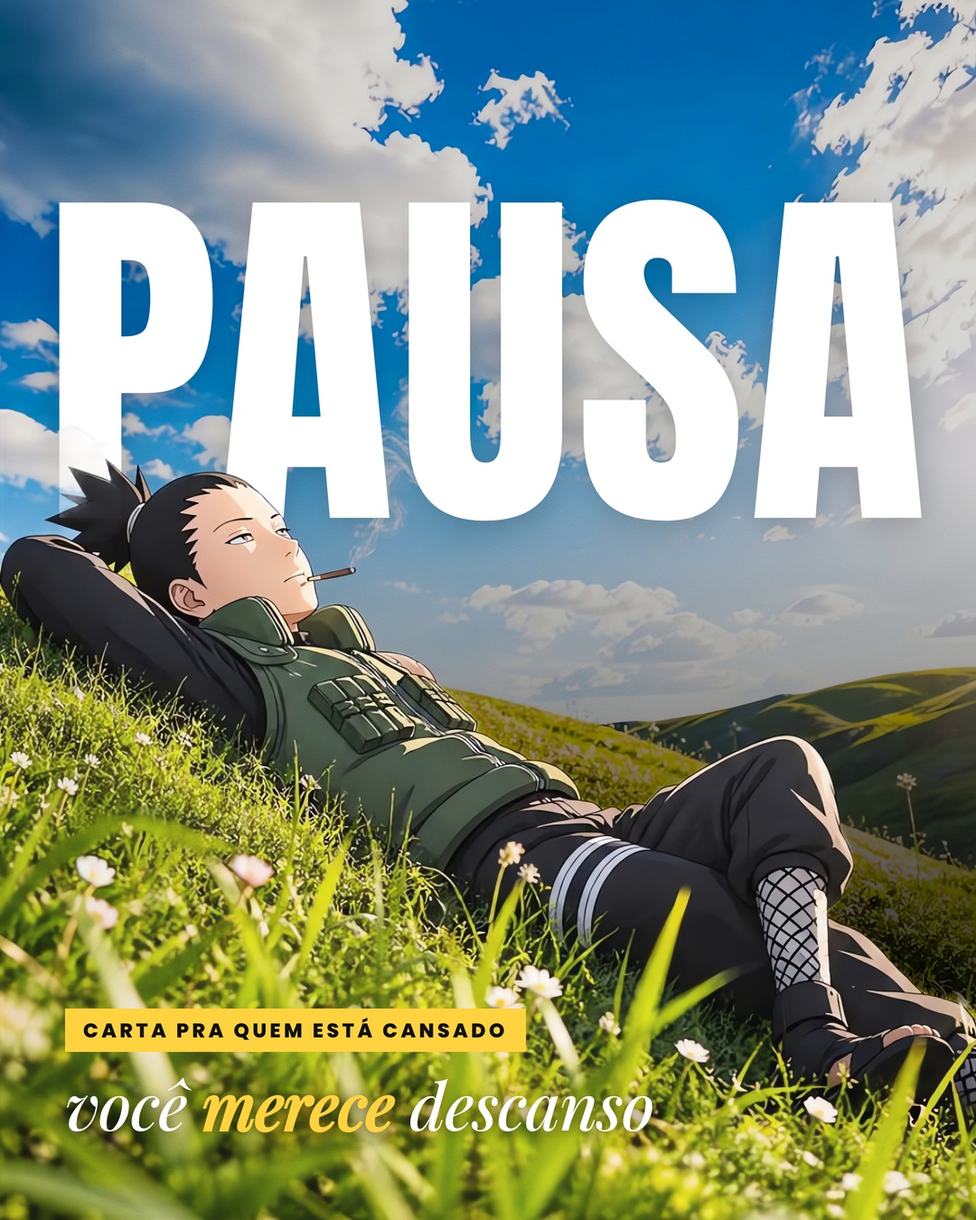
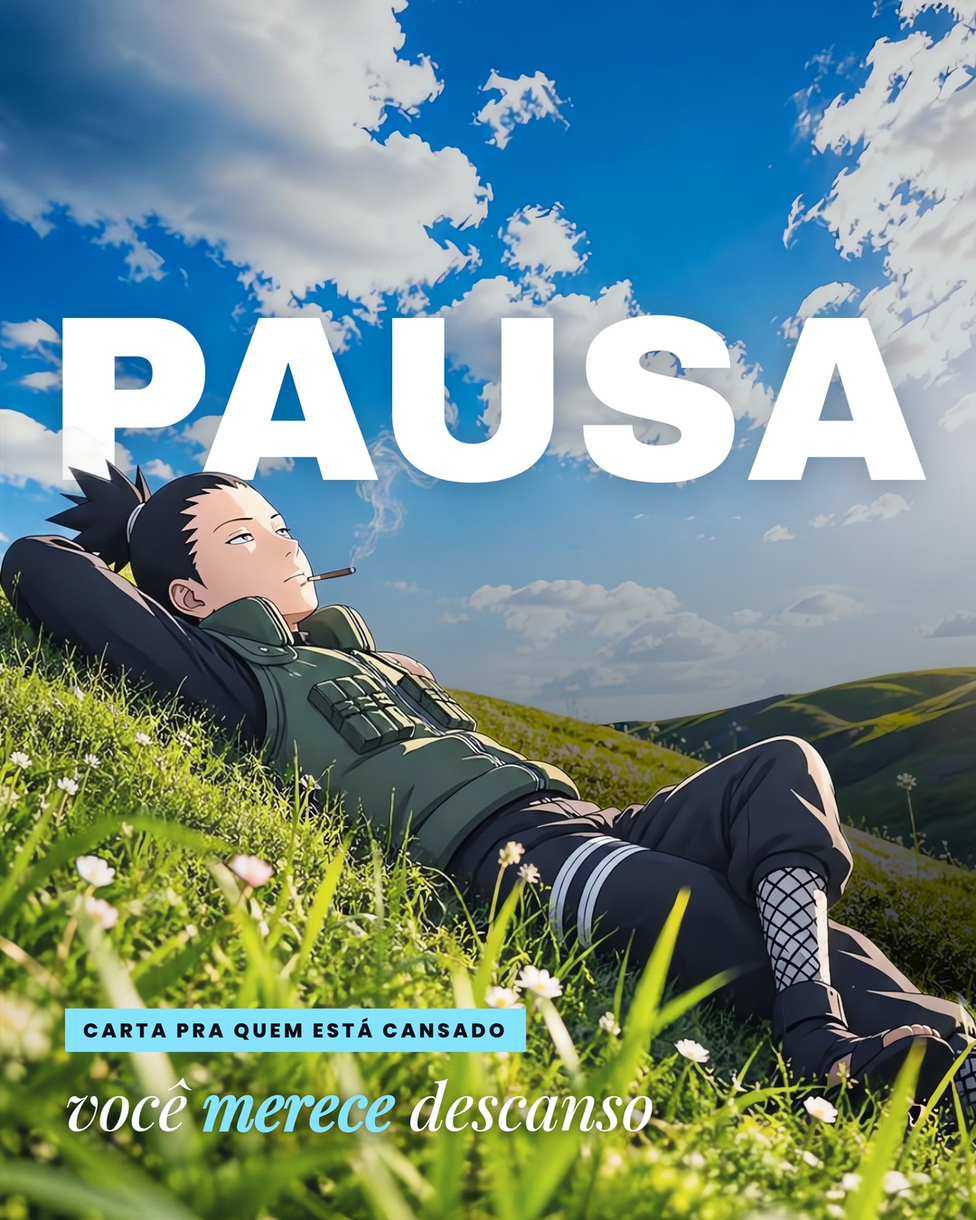
Temas visuais (paleta/fontes/tom) e regra de variar o visual entre posts; 28/11 em tema oceano
Claude-Session: https://claude.ai/code/session_01Dfr63gNG2gKdD9mBSqCAhu

Changed region(s): [[0.0611, 0.1556, 0.9472, 0.4356], [0.0611, 0.8089, 0.55, 0.9333]]

diff --git a/posts/2026-11-28/carrossel.html b/posts/2026-11-28/carrossel.html
@@ -21,11 +21,17 @@ body{background:#777;display:flex;flex-direction:column;gap:40px;padding:40px;al
 .tj .hd{font:italic 500 28px C;margin-bottom:12px;text-shadow:0 1px 3px rgba(0,0,0,.9),0 0 14px rgba(0,0,0,.6)}
 .tj .ln{margin:0;font:700 52px/1.18 T;letter-spacing:-.02em;
  text-shadow:0 2px 2px rgba(0,0,0,.55),0 0 6px rgba(0,0,0,.55),0 0 22px rgba(0,0,0,.45);-webkit-text-stroke:.6px rgba(0,0,0,.25)}
-.tj .ln b{color:#ffd23f}
+.tj .ln b{color:var(--acc)}
 .tj .tt{font-size:100px;line-height:1.02;letter-spacing:-.04em}
-.tj .tt b{color:#ffd23f}
+.tj .tt b{color:var(--acc)}
 .tj .st{margin-top:14px;font-size:44px;font-weight:600}
 @font-face{font-family:A;src:url(../../assets/fonts/anton-latin-400-normal.woff2)}
+@font-face{font-family:BB;src:url(../../assets/fonts/bebas-neue-latin-400-normal.woff2)}
+@font-face{font-family:AB;src:url(../../assets/fonts/archivo-black-latin-400-normal.woff2)}
+@font-face{font-family:CG;font-style:italic;font-weight:500;src:url(../../assets/fonts/cormorant-garamond-latin-500-italic.woff2)}
+:root{--acc:var(--acc);--paper:#f1ece2;--hot:var(--hot);--ink:#151515;--disp:A;--ser:PF;--wash:transparent;--gs:0}
+.slide{filter:grayscale(var(--gs))}
+.slide::after{content:"";position:absolute;inset:0;background:var(--wash);mix-blend-mode:soft-light;z-index:25;pointer-events:none}
 @font-face{font-family:PF;font-weight:500;src:url(../../assets/fonts/playfair-display-latin-500-normal.woff2)}
 @font-face{font-family:PF;font-weight:500;font-style:italic;src:url(../../assets/fonts/playfair-display-latin-500-italic.woff2)}
 @font-face{font-family:Pp;font-weight:300;src:url(../../assets/fonts/poppins-latin-300-normal.woff2),url(../../assets/fonts/poppins-latin-ext-300-normal.woff2)}
@@ -49,46 +55,46 @@ body{background:#777;display:flex;flex-direction:column;gap:40px;padding:40px;al
 .dec{position:absolute;inset:0;z-index:7;pointer-events:none;color:#fff}
 .dec .fr{position:absolute;inset:24px;border:2px solid rgba(255,255,255,.8);border-radius:4px;box-shadow:0 0 18px rgba(0,0,0,.25),inset 0 0 18px rgba(0,0,0,.18)}
 .dec .fr2{position:absolute;inset:36px;border:1px solid rgba(255,255,255,.4)}
-.dec .cn{position:absolute;width:54px;height:54px;border:0 solid #ffd23f}
+.dec .cn{position:absolute;width:54px;height:54px;border:0 solid var(--acc)}
 .dec .tl{top:16px;left:16px;border-top-width:6px;border-left-width:6px}.dec .tr{top:16px;right:16px;border-top-width:6px;border-right-width:6px}
 .dec .bl{bottom:16px;left:16px;border-bottom-width:6px;border-left-width:6px}.dec .br{bottom:16px;right:16px;border-bottom-width:6px;border-right-width:6px}
 .dec .tp{position:absolute;top:52px;left:70px;right:70px;display:flex;justify-content:space-between;font:600 24px Pp;letter-spacing:.12em;text-shadow:0 1px 6px rgba(0,0,0,.6)}
-.dec .tp .n b{color:#ffd23f;font-weight:800}
+.dec .tp .n b{color:var(--acc);font-weight:800}
 .dec .nx{position:absolute;bottom:52px;right:72px;font:600 26px Pp;letter-spacing:.12em;text-shadow:0 1px 6px rgba(0,0,0,.6)}
-.dec .dots{position:absolute;bottom:56px;left:72px;display:flex;gap:10px}.dec .dots i{width:12px;height:12px;border-radius:50%;background:rgba(255,255,255,.45)}.dec .dots i.on{background:#ffd23f}
+.dec .dots{position:absolute;bottom:56px;left:72px;display:flex;gap:10px}.dec .dots i{width:12px;height:12px;border-radius:50%;background:rgba(255,255,255,.45)}.dec .dots i.on{background:var(--acc)}
 .scrim{position:absolute;left:0;right:0;top:0;height:900px;z-index:2;background:linear-gradient(180deg,rgba(0,0,0,.66),rgba(0,0,0,.34) 58%,rgba(0,0,0,0))}
 .scrim.sb{top:auto;bottom:0;background:linear-gradient(0deg,rgba(0,0,0,.72),rgba(0,0,0,.4) 58%,rgba(0,0,0,0))}
 .sr .tag{display:inline-block;background:#fff;color:#111;font:800 23px Pp;letter-spacing:.16em;text-transform:uppercase;padding:9px 22px 8px;border-radius:999px;margin-bottom:22px;text-shadow:none;box-shadow:0 3px 12px rgba(0,0,0,.35)}
-.sr .dv{width:96px;height:6px;border-radius:3px;background:#ffd23f;margin:26px auto 0}
+.sr .dv{width:96px;height:6px;border-radius:3px;background:var(--acc);margin:26px auto 0}
 .sr.rich .hl{font-size:98px}
 .sr.rich .bd{font:600 39px/1.2 Pp;letter-spacing:-.025em;margin-top:26px;padding:0 24px;text-shadow:0 2px 3px rgba(0,0,0,.6),0 0 16px rgba(0,0,0,.5)}
-.sr.rich .bd b{font-weight:800;color:#ffd23f}
+.sr.rich .bd b{font-weight:800;color:var(--acc)}
 /* colagem: layouts variados (fantasma, painel, quadro, frase) */
-.gw{position:absolute;left:50%;transform:translateX(-50%);z-index:3;font:400 420px/.82 A;text-transform:uppercase;white-space:nowrap;color:#fff;letter-spacing:.01em;text-shadow:0 6px 40px rgba(0,0,0,.25)}
+.gw{position:absolute;left:50%;transform:translateX(-50%);z-index:3;font:400 420px/.82 var(--disp);text-transform:uppercase;white-space:nowrap;color:#fff;letter-spacing:.01em;text-shadow:0 6px 40px rgba(0,0,0,.25)}
 .gw.ol{color:transparent;-webkit-text-stroke:5px #fff;text-shadow:none}
 .cshade{position:absolute;inset:0;z-index:2;background:linear-gradient(0deg,rgba(0,0,0,.9) 0%,rgba(0,0,0,.66) 26%,rgba(0,0,0,.25) 46%,rgba(0,0,0,0) 62%)}
 .cshade.t{background:linear-gradient(180deg,rgba(0,0,0,.9) 0%,rgba(0,0,0,.66) 26%,rgba(0,0,0,.25) 46%,rgba(0,0,0,0) 62%)}
 .ccap{position:absolute;left:72px;right:72px;bottom:92px;z-index:9;color:#fff}
 .ccap.t{bottom:auto;top:92px}
-.ctag{display:inline-block;background:#ffd23f;color:#111;font:800 22px Pp;letter-spacing:.16em;text-transform:uppercase;padding:8px 20px 7px;margin-bottom:20px}
-.ccap .hd{font:italic 500 72px/1.03 PF;letter-spacing:-.012em;text-shadow:0 2px 14px rgba(0,0,0,.6)}
+.ctag{display:inline-block;background:var(--acc);color:#111;font:800 22px Pp;letter-spacing:.16em;text-transform:uppercase;padding:8px 20px 7px;margin-bottom:20px}
+.ccap .hd{font:italic 500 72px/1.03 var(--ser);letter-spacing:-.012em;text-shadow:0 2px 14px rgba(0,0,0,.6)}
 .ccap .bd{font:500 35px/1.26 Pp;letter-spacing:-.015em;margin-top:20px;text-shadow:0 2px 10px rgba(0,0,0,.7)}
-.ccap b{color:#ffd23f;font-weight:700}
-.cpan{background:#f1ece2;color:#151515}
-.cpan .pt{position:absolute;top:60px;left:84px;right:84px;display:flex;justify-content:space-between;font:italic 500 25px PF;letter-spacing:.04em;color:#555}
+.ccap b{color:var(--acc);font-weight:700}
+.cpan{background:var(--paper);color:var(--ink)}
+.cpan .pt{position:absolute;top:60px;left:84px;right:84px;display:flex;justify-content:space-between;font:italic 500 25px var(--ser);letter-spacing:.04em;color:#555}
 .cpan .col{position:absolute;left:84px;right:84px;top:112px;bottom:70px;display:flex;flex-direction:column;gap:34px}
-.cpan .tt{font:400 124px/.92 A;text-transform:uppercase;letter-spacing:.005em}
-.cpan .tt b{color:#b3261e;font-weight:400}
+.cpan .tt{font-family:var(--disp);font-weight:400;font-size:calc(124px*var(--dk));line-height:.92;text-transform:uppercase;letter-spacing:.005em}
+.cpan .tt b{color:var(--hot);font-weight:400}
 .fbox{position:relative;flex:none}
 .cfr{position:absolute;background:#fff;padding:14px;box-shadow:0 14px 34px rgba(0,0,0,.3);z-index:4}
 .cfr img{display:block;width:100%;height:100%;object-fit:cover}
-.cpan .tx{font:500 40px/1.27 PF;text-align:justify;hyphens:none;color:#1b1b1b}
-.cpan .tx b{font-weight:600;background:linear-gradient(transparent 56%,#ffd23f 56%)}
+.cpan .tx{font:500 40px/1.27 var(--ser);text-align:justify;hyphens:none;color:#1b1b1b}
+.cpan .tx b{font-weight:600;background:linear-gradient(transparent 56%,var(--acc) 56%)}
 .gm{mix-blend-mode:multiply!important;opacity:.35!important}
-.qm{position:absolute;top:40px;left:50px;font:400 640px/1 PF;color:rgba(255,255,255,.22);z-index:3}
-.qt{position:absolute;left:92px;right:92px;top:38%;transform:translateY(-50%);font:italic 500 76px/1.14 PF;text-align:center;color:#fff;z-index:5;text-shadow:0 3px 18px rgba(0,0,0,.6)}
-.qt b{color:#ffd23f;font-weight:500}
-.qa{position:absolute;left:0;right:0;bottom:150px;text-align:center;font:600 27px Pp;letter-spacing:.3em;text-transform:uppercase;color:#ffd23f;z-index:5}
+.qm{position:absolute;top:40px;left:50px;font:400 640px/1 var(--ser);color:rgba(255,255,255,.22);z-index:3}
+.qt{position:absolute;left:92px;right:92px;top:38%;transform:translateY(-50%);font:italic 500 76px/1.14 var(--ser);text-align:center;color:#fff;z-index:5;text-shadow:0 3px 18px rgba(0,0,0,.6)}
+.qt b{color:var(--acc);font-weight:500}
+.qa{position:absolute;left:0;right:0;bottom:150px;text-align:center;font:600 27px Pp;letter-spacing:.3em;text-transform:uppercase;color:var(--acc);z-index:5}
 /* variante christversions: bloco justificado, sem cor */
 .v-cv .ln{font-size:56px;line-height:1.06;text-align:justify;text-align-last:left;letter-spacing:-.025em}
 .v-cv .ln b{color:#fff}
@@ -102,7 +108,7 @@ body{background:#777;display:flex;flex-direction:column;gap:40px;padding:40px;al
 .v-ps .ln{font:400 64px/1.08 A;text-transform:uppercase;letter-spacing:.005em}
 .v-ps .ln b{color:#ff5fa2;font-weight:400}
 .v-ps .tt{font-size:150px;line-height:.96}.v-ps .st{font:600 40px/1.2 T;text-transform:none}
-</style></head><body><section class="slide" id="s1" style="background:#000"><img class="bg photo" src="work/img1.jpg" style="top:0px;filter:brightness(0.82) saturate(1.1)"><div class="cshade"></div><div class="gw" data-off="0" data-wk="0.85">pausa</div><img class="bg fg" src="work/fg1.png" data-tops="453,453,453,454,456,457,459,461,497,465,498,499,506,514,478,517,517,512,514,514,515,517,519,520,521,523,524,526,527,529,510,514,517,521,524,528,532,535,519,523,531,540,547,544,541,538,535,532,531,529,528,526,525,524,523,522,522,522,522,522,522,523,524,525,526,527,529,531,533,536,540,543,546,550,555,559,563,567,572,581,591,596,598,605,611,618,629,639,637,636,635,634,633,632,631,630,630,630,675,678,683,690,698,706,720,721,721,721,722,722,723,724,725,727,729,731,733,735,739,744,750,757,762,765,768,772,776,781,784,788,791,795,802,811,813,815,817,820,823,825,827,829,831,833,835,837,840,841,841,842,842,843,845,846,848,851,854,858,863,868,877,885,885,886,888,890,893,894,894,893,893,894,896,893,891,890,890,890,889,887,882,878,875,872,871,870,869,868,866,863,860,858,855,853,851,849,847,845,843,840,838,836,834,832,831,829,827,825,824,822,821,820,818,817,816,815,815,814,814,814,815,816,818,820,823,827,831,837,844,852,862,884,905,922,930,939,951,1030,1032,1035,1038,1041,1044,1049,1052,1057,1062,1066,1071,1075,1078,1082,1086,1090,1094,1097,1099,1100,1101,1102,1103,1104,1105,1106,1108,1109,1110,1113,1116,1119" style="top:0px"><div class="ccap"><div class="ctag">carta pra quem está cansado</div><div class="hd">você <b>merece</b> descanso</div></div><div class="grain"></div></section><section class="slide cpan" id="s2"><div class="pt"><span>@darkgoodvibes</span><span>Meu Vizinho Totoro</span></div><div class="col"><div class="tt">você não está <b>atrasado</b>, está cansado</div><div class="fbox" style="height:560px"><div class="cfr" style="left:20px;top:6px;width:800px;height:470px;transform:rotate(-1.3deg)"><img src="work/p2a.jpg"></div><div class="cfr" style="right:6px;top:220px;width:280px;height:340px;transform:rotate(3.5deg)"><img src="work/p2b.jpg"></div></div><div class="tx">Descansar não é perder tempo. Até o Totoro passa o dia dormindo no fundo da floresta, e ninguém o chama de preguiçoso. <b>Pausa também faz parte do caminho.</b></div></div><div class="grain gm"></div></section><section class="slide" id="s3"><img class="bg photo" src="work/img3.jpg"><div class="cshade"></div><div class="cfr" style="top:120px;right:64px;width:360px;height:450px;transform:rotate(4deg);z-index:6"><img src="work/q3.jpg"></div><div class="ccap"><div class="ctag">Frieren</div><div class="hd">até quem vive <b>mil anos</b> faz pausa</div><div class="bd">Frieren para pra olhar flor, tira soneca debaixo da árvore e não se cobra por isso. <b>Se ela pode, você também pode.</b></div></div><div class="grain"></div></section><section class="slide" id="s4"><img class="bg photo" src="work/img4.jpg"><div class="scrim sb"></div><div class="sr sr-bottom rich" data-pos="bottom"><div class="tag">Mushishi · Ginko</div><div class="hl">o viajante também <b>descansa</b></div><div class="dv"></div><div class="bd"><p>Ginko caminha de vilarejo em vilarejo, mas sempre acha um canto pra respirar. <b>Quem anda muito precisa parar</b> pra conseguir continuar.</p></div></div><img class="bg fg" src="work/fg4.png" data-tops="1350,1350,1350,1350,1350,1350,1350,1350,1350,1350,1350,1350,1350,1350,1350,1350,1350,1350,1350,1350,1350,1350,1350,1350,1350,1350,1350,1350,1350,1350,1350,1350,1350,1350,1350,1350,1350,1350,1350,1350,1350,1350,1350,1350,1350,1128,1350,1350,1350,1350,1350,1350,1350,1350,1350,1350,1350,1350,1350,1350,1350,1344,1320,1046,1038,1030,1021,1009,982,924,892,871,850,832,820,812,804,797,789,447,440,434,427,420,264,262,261,260,258,256,254,252,251,249,246,244,241,238,236,233,230,226,223,220,216,212,208,205,202,199,196,194,192,190,189,187,184,182,179,176,173,171,169,167,165,164,162,161,159,158,157,156,154,154,153,153,153,153,153,154,154,155,156,156,156,155,154,153,153,152,152,152,152,153,153,153,154,154,156,157,158,160,161,162,164,166,167,169,171,173,174,174,175,175,175,176,176,176,177,178,178,179,181,182,184,186,188,191,194,197,201,204,208,212,216,220,224,228,233,239,245,252,260,269,275,282,288,295,304,313,324,338,350,640,650,660,671,684,691,696,701,705,710,716,722,730,737,742,747,751,756,761,766,771,775,780,784,787,790,793,796,800,804,808,812,816,820,824,828,832,836,840,844,848,852,857,861,866,871,877,883,888,894,901,908,915,924,932,940,949"><div class="grain"></div></section><section class="slide cpan" id="s5"><div class="pt"><span>@darkgoodvibes</span><span>pequenas pausas</span></div><div class="col"><div class="tt">o mundo não acaba se você <b>parar</b></div><div class="fbox" style="height:560px"><div class="cfr" style="left:20px;top:6px;width:800px;height:470px;transform:rotate(-1.3deg)"><img src="work/p5a.jpg"></div><div class="cfr" style="right:6px;top:220px;width:280px;height:340px;transform:rotate(3.5deg)"><img src="work/p5b.jpg"></div></div><div class="tx">Desligar o celular, fazer um chá, olhar a chuva cair. <b>Pequenas pausas</b> também são cuidado, e hoje você pode começar por uma delas.</div></div><div class="grain gm"></div></section><section class="slide" id="s6"><img class="bg photo" src="work/img6.jpg" style="filter:brightness(.52) saturate(.9)"><div class="qm">&ldquo;</div><div class="qt">Descansar também é <b>seguir em frente.</b></div><div class="qa">Siga @darkgoodvibes</div><div class="grain"></div></section><script>
+:root{--dk:.74;--acc:#8fe3ff;--paper:#e8f0f4;--hot:#0b5d8a;--ink:#0f1f2b;--disp:AB;--ser:PF;--wash:rgba(40,120,210,.24);--gs:0}</style></head><body><section class="slide" id="s1" style="background:#000"><img class="bg photo" src="work/img1.jpg" style="top:0px;filter:brightness(0.82) saturate(1.1)"><div class="cshade"></div><div class="gw" data-off="0" data-wk="0.85">pausa</div><img class="bg fg" src="work/fg1.png" data-tops="453,453,453,454,456,457,459,461,497,465,498,499,506,514,478,517,517,512,514,514,515,517,519,520,521,523,524,526,527,529,510,514,517,521,524,528,532,535,519,523,531,540,547,544,541,538,535,532,531,529,528,526,525,524,523,522,522,522,522,522,522,523,524,525,526,527,529,531,533,536,540,543,546,550,555,559,563,567,572,581,591,596,598,605,611,618,629,639,637,636,635,634,633,632,631,630,630,630,675,678,683,690,698,706,720,721,721,721,722,722,723,724,725,727,729,731,733,735,739,744,750,757,762,765,768,772,776,781,784,788,791,795,802,811,813,815,817,820,823,825,827,829,831,833,835,837,840,841,841,842,842,843,845,846,848,851,854,858,863,868,877,885,885,886,888,890,893,894,894,893,893,894,896,893,891,890,890,890,889,887,882,878,875,872,871,870,869,868,866,863,860,858,855,853,851,849,847,845,843,840,838,836,834,832,831,829,827,825,824,822,821,820,818,817,816,815,815,814,814,814,815,816,818,820,823,827,831,837,844,852,862,884,905,922,930,939,951,1030,1032,1035,1038,1041,1044,1049,1052,1057,1062,1066,1071,1075,1078,1082,1086,1090,1094,1097,1099,1100,1101,1102,1103,1104,1105,1106,1108,1109,1110,1113,1116,1119" style="top:0px"><div class="ccap"><div class="ctag">carta pra quem está cansado</div><div class="hd">você <b>merece</b> descanso</div></div><div class="grain"></div></section><section class="slide cpan" id="s2"><div class="pt"><span>@darkgoodvibes</span><span>Meu Vizinho Totoro</span></div><div class="col"><div class="tt">você não está <b>atrasado</b>, está cansado</div><div class="fbox" style="height:560px"><div class="cfr" style="left:20px;top:6px;width:800px;height:470px;transform:rotate(-1.3deg)"><img src="work/p2a.jpg"></div><div class="cfr" style="right:6px;top:220px;width:280px;height:340px;transform:rotate(3.5deg)"><img src="work/p2b.jpg"></div></div><div class="tx">Descansar não é perder tempo. Até o Totoro passa o dia dormindo no fundo da floresta, e ninguém o chama de preguiçoso. <b>Pausa também faz parte do caminho.</b></div></div><div class="grain gm"></div></section><section class="slide" id="s3"><img class="bg photo" src="work/img3.jpg"><div class="cshade"></div><div class="cfr" style="top:120px;right:64px;width:360px;height:450px;transform:rotate(4deg);z-index:6"><img src="work/q3.jpg"></div><div class="ccap"><div class="ctag">Frieren</div><div class="hd">até quem vive <b>mil anos</b> faz pausa</div><div class="bd">Frieren para pra olhar flor, tira soneca debaixo da árvore e não se cobra por isso. <b>Se ela pode, você também pode.</b></div></div><div class="grain"></div></section><section class="slide" id="s4"><img class="bg photo" src="work/img4.jpg"><div class="scrim sb"></div><div class="sr sr-bottom rich" data-pos="bottom"><div class="tag">Mushishi · Ginko</div><div class="hl">o viajante também <b>descansa</b></div><div class="dv"></div><div class="bd"><p>Ginko caminha de vilarejo em vilarejo, mas sempre acha um canto pra respirar. <b>Quem anda muito precisa parar</b> pra conseguir continuar.</p></div></div><img class="bg fg" src="work/fg4.png" data-tops="1350,1350,1350,1350,1350,1350,1350,1350,1350,1350,1350,1350,1350,1350,1350,1350,1350,1350,1350,1350,1350,1350,1350,1350,1350,1350,1350,1350,1350,1350,1350,1350,1350,1350,1350,1350,1350,1350,1350,1350,1350,1350,1350,1350,1350,1128,1350,1350,1350,1350,1350,1350,1350,1350,1350,1350,1350,1350,1350,1350,1350,1344,1320,1046,1038,1030,1021,1009,982,924,892,871,850,832,820,812,804,797,789,447,440,434,427,420,264,262,261,260,258,256,254,252,251,249,246,244,241,238,236,233,230,226,223,220,216,212,208,205,202,199,196,194,192,190,189,187,184,182,179,176,173,171,169,167,165,164,162,161,159,158,157,156,154,154,153,153,153,153,153,154,154,155,156,156,156,155,154,153,153,152,152,152,152,153,153,153,154,154,156,157,158,160,161,162,164,166,167,169,171,173,174,174,175,175,175,176,176,176,177,178,178,179,181,182,184,186,188,191,194,197,201,204,208,212,216,220,224,228,233,239,245,252,260,269,275,282,288,295,304,313,324,338,350,640,650,660,671,684,691,696,701,705,710,716,722,730,737,742,747,751,756,761,766,771,775,780,784,787,790,793,796,800,804,808,812,816,820,824,828,832,836,840,844,848,852,857,861,866,871,877,883,888,894,901,908,915,924,932,940,949"><div class="grain"></div></section><section class="slide cpan" id="s5"><div class="pt"><span>@darkgoodvibes</span><span>pequenas pausas</span></div><div class="col"><div class="tt">o mundo não acaba se você <b>parar</b></div><div class="fbox" style="height:560px"><div class="cfr" style="left:20px;top:6px;width:800px;height:470px;transform:rotate(-1.3deg)"><img src="work/p5a.jpg"></div><div class="cfr" style="right:6px;top:220px;width:280px;height:340px;transform:rotate(3.5deg)"><img src="work/p5b.jpg"></div></div><div class="tx">Desligar o celular, fazer um chá, olhar a chuva cair. <b>Pequenas pausas</b> também são cuidado, e hoje você pode começar por uma delas.</div></div><div class="grain gm"></div></section><section class="slide" id="s6"><img class="bg photo" src="work/img6.jpg" style="filter:brightness(.52) saturate(.9)"><div class="qm">&ldquo;</div><div class="qt">Descansar também é <b>seguir em frente.</b></div><div class="qa">Siga @darkgoodvibes</div><div class="grain"></div></section><script>
 document.fonts.ready.then(()=>{document.querySelectorAll('.gw').forEach(g=>{
  const sec=g.closest('section'), fg=sec.querySelector('.fg'); let fs=420; g.style.fontSize=fs+'px';
  fs=Math.max(170,Math.min(600,fs*980/g.offsetWidth)); g.style.fontSize=fs+'px';

diff --git a/tools/build.py b/tools/build.py
@@ -125,11 +125,17 @@ body{background:#777;display:flex;flex-direction:column;gap:40px;padding:40px;al
 .tj .hd{font:italic 500 28px C;margin-bottom:12px;text-shadow:0 1px 3px rgba(0,0,0,.9),0 0 14px rgba(0,0,0,.6)}
 .tj .ln{margin:0;font:700 52px/1.18 T;letter-spacing:-.02em;
  text-shadow:0 2px 2px rgba(0,0,0,.55),0 0 6px rgba(0,0,0,.55),0 0 22px rgba(0,0,0,.45);-webkit-text-stroke:.6px rgba(0,0,0,.25)}
-.tj .ln b{color:#ffd23f}
+.tj .ln b{color:var(--acc)}
 .tj .tt{font-size:100px;line-height:1.02;letter-spacing:-.04em}
-.tj .tt b{color:#ffd23f}
+.tj .tt b{color:var(--acc)}
 .tj .st{margin-top:14px;font-size:44px;font-weight:600}
 @font-face{font-family:A;src:url(FONTS/anton-latin-400-normal.woff2)}
+@font-face{font-family:BB;src:url(FONTS/bebas-neue-latin-400-normal.woff2)}
+@font-face{font-family:AB;src:url(FONTS/archivo-black-latin-400-normal.woff2)}
+@font-face{font-family:CG;font-style:italic;font-weight:500;src:url(FONTS/cormorant-garamond-latin-500-italic.woff2)}
+:root{--acc:var(--acc);--paper:#f1ece2;--hot:var(--hot);--ink:#151515;--disp:A;--ser:PF;--wash:transparent;--gs:0}
+.slide{filter:grayscale(var(--gs))}
+.slide::after{content:"";position:absolute;inset:0;background:var(--wash);mix-blend-mode:soft-light;z-index:25;pointer-events:none}
 @font-face{font-family:PF;font-weight:500;src:url(FONTS/playfair-display-latin-500-normal.woff2)}
 @font-face{font-family:PF;font-weight:500;font-style:italic;src:url(FONTS/playfair-display-latin-500-italic.woff2)}
 @font-face{font-family:Pp;font-weight:300;src:url(FONTS/poppins-latin-300-normal.woff2),url(FONTS/poppins-latin-ext-300-normal.woff2)}
@@ -153,46 +159,46 @@ body{background:#777;display:flex;flex-direction:column;gap:40px;padding:40px;al
 .dec{position:absolute;inset:0;z-index:7;pointer-events:none;color:#fff}
 .dec .fr{position:absolute;inset:24px;border:2px solid rgba(255,255,255,.8);border-radius:4px;box-shadow:0 0 18px rgba(0,0,0,.25),inset 0 0 18px rgba(0,0,0,.18)}
 .dec .fr2{position:absolute;inset:36px;border:1px solid rgba(255,255,255,.4)}
-.dec .cn{position:absolute;width:54px;height:54px;border:0 solid #ffd23f}
+.dec .cn{position:absolute;width:54px;height:54px;border:0 solid var(--acc)}
 .dec .tl{top:16px;left:16px;border-top-width:6px;border-left-width:6px}.dec .tr{top:16px;right:16px;border-top-width:6px;border-right-width:6px}
 .dec .bl{bottom:16px;left:16px;border-bottom-width:6px;border-left-width:6px}.dec .br{bottom:16px;right:16px;border-bottom-width:6px;border-right-width:6px}
 .dec .tp{position:absolute;top:52px;left:70px;right:70px;display:flex;justify-content:space-between;font:600 24px Pp;letter-spacing:.12em;text-shadow:0 1px 6px rgba(0,0,0,.6)}
-.dec .tp .n b{color:#ffd23f;font-weight:800}
+.dec .tp .n b{color:var(--acc);font-weight:800}
 .dec .nx{position:absolute;bottom:52px;right:72px;font:600 26px Pp;letter-spacing:.12em;text-shadow:0 1px 6px rgba(0,0,0,.6)}
-.dec .dots{position:absolute;bottom:56px;left:72px;display:flex;gap:10px}.dec .dots i{width:12px;height:12px;border-radius:50%;background:rgba(255,255,255,.45)}.dec .dots i.on{background:#ffd23f}
+.dec .dots{position:absolute;bottom:56px;left:72px;display:flex;gap:10px}.dec .dots i{width:12px;height:12px;border-radius:50%;background:rgba(255,255,255,.45)}.dec .dots i.on{background:var(--acc)}
 .scrim{position:absolute;left:0;right:0;top:0;height:900px;z-index:2;background:linear-gradient(180deg,rgba(0,0,0,.66),rgba(0,0,0,.34) 58%,rgba(0,0,0,0))}
 .scrim.sb{top:auto;bottom:0;background:linear-gradient(0deg,rgba(0,0,0,.72),rgba(0,0,0,.4) 58%,rgba(0,0,0,0))}
 .sr .tag{display:inline-block;background:#fff;color:#111;font:800 23px Pp;letter-spacing:.16em;text-transform:uppercase;padding:9px 22px 8px;border-radius:999px;margin-bottom:22px;text-shadow:none;box-shadow:0 3px 12px rgba(0,0,0,.35)}
-.sr .dv{width:96px;height:6px;border-radius:3px;background:#ffd23f;margin:26px auto 0}
+.sr .dv{width:96px;height:6px;border-radius:3px;background:var(--acc);margin:26px auto 0}
 .sr.rich .hl{font-size:98px}
 .sr.rich .bd{font:600 39px/1.2 Pp;letter-spacing:-.025em;margin-top:26px;padding:0 24px;text-shadow:0 2px 3px rgba(0,0,0,.6),0 0 16px rgba(0,0,0,.5)}
-.sr.rich .bd b{font-weight:800;color:#ffd23f}
+.sr.rich .bd b{font-weight:800;color:var(--acc)}
 /* colagem: layouts variados (fantasma, painel, quadro, frase) */
-.gw{position:absolute;left:50%;transform:translateX(-50%);z-index:3;font:400 420px/.82 A;text-transform:uppercase;white-space:nowrap;color:#fff;letter-spacing:.01em;text-shadow:0 6px 40px rgba(0,0,0,.25)}
+.gw{position:absolute;left:50%;transform:translateX(-50%);z-index:3;font:400 420px/.82 var(--disp);text-transform:uppercase;white-space:nowrap;color:#fff;letter-spacing:.01em;text-shadow:0 6px 40px rgba(0,0,0,.25)}
 .gw.ol{color:transparent;-webkit-text-stroke:5px #fff;text-shadow:none}
 .cshade{position:absolute;inset:0;z-index:2;background:linear-gradient(0deg,rgba(0,0,0,.9) 0%,rgba(0,0,0,.66) 26%,rgba(0,0,0,.25) 46%,rgba(0,0,0,0) 62%)}
 .cshade.t{background:linear-gradient(180deg,rgba(0,0,0,.9) 0%,rgba(0,0,0,.66) 26%,rgba(0,0,0,.25) 46%,rgba(0,0,0,0) 62%)}
 .ccap{position:absolute;left:72px;right:72px;bottom:92px;z-index:9;color:#fff}
 .ccap.t{bottom:auto;top:92px}
-.ctag{display:inline-block;background:#ffd23f;color:#111;font:800 22px Pp;letter-spacing:.16em;text-transform:uppercase;padding:8px 20px 7px;margin-bottom:20px}
-.ccap .hd{font:italic 500 72px/1.03 PF;letter-spacing:-.012em;text-shadow:0 2px 14px rgba(0,0,0,.6)}
+.ctag{display:inline-block;background:var(--acc);color:#111;font:800 22px Pp;letter-spacing:.16em;text-transform:uppercase;padding:8px 20px 7px;margin-bottom:20px}
+.ccap .hd{font:italic 500 72px/1.03 var(--ser);letter-spacing:-.012em;text-shadow:0 2px 14px rgba(0,0,0,.6)}
 .ccap .bd{font:500 35px/1.26 Pp;letter-spacing:-.015em;margin-top:20px;text-shadow:0 2px 10px rgba(0,0,0,.7)}
-.ccap b{color:#ffd23f;font-weight:700}
-.cpan{background:#f1ece2;color:#151515}
-.cpan .pt{position:absolute;top:60px;left:84px;right:84px;display:flex;justify-content:space-between;font:italic 500 25px PF;letter-spacing:.04em;color:#555}
+.ccap b{color:var(--acc);font-weight:700}
+.cpan{background:var(--paper);color:var(--ink)}
+.cpan .pt{position:absolute;top:60px;left:84px;right:84px;display:flex;justify-content:space-between;font:italic 500 25px var(--ser);letter-spacing:.04em;color:#555}
 .cpan .col{position:absolute;left:84px;right:84px;top:112px;bottom:70px;display:flex;flex-direction:column;gap:34px}
-.cpan .tt{font:400 124px/.92 A;text-transform:uppercase;letter-spacing:.005em}
-.cpan .tt b{color:#b3261e;font-weight:400}
+.cpan .tt{font-family:var(--disp);font-weight:400;font-size:calc(124px*var(--dk));line-height:.92;text-transform:uppercase;letter-spacing:.005em}
+.cpan .tt b{color:var(--hot);font-weight:400}
 .fbox{position:relative;flex:none}
 .cfr{position:absolute;background:#fff;padding:14px;box-shadow:0 14px 34px rgba(0,0,0,.3);z-index:4}
 .cfr img{display:block;width:100%;height:100%;object-fit:cover}
-.cpan .tx{font:500 40px/1.27 PF;text-align:justify;hyphens:none;color:#1b1b1b}
-.cpan .tx b{font-weight:600;background:linear-gradient(transparent 56%,#ffd23f 56%)}
+.cpan .tx{font:500 40px/1.27 var(--ser);text-align:justify;hyphens:none;color:#1b1b1b}
+.cpan .tx b{font-weight:600;background:linear-gradient(transparent 56%,var(--acc) 56%)}
 .gm{mix-blend-mode:multiply!important;opacity:.35!important}
-.qm{position:absolute;top:40px;left:50px;font:400 640px/1 PF;color:rgba(255,255,255,.22);z-index:3}
-.qt{position:absolute;left:92px;right:92px;top:38%;transform:translateY(-50%);font:italic 500 76px/1.14 PF;text-align:center;color:#fff;z-index:5;text-shadow:0 3px 18px rgba(0,0,0,.6)}
-.qt b{color:#ffd23f;font-weight:500}
-.qa{position:absolute;left:0;right:0;bottom:150px;text-align:center;font:600 27px Pp;letter-spacing:.3em;text-transform:uppercase;color:#ffd23f;z-index:5}
+.qm{position:absolute;top:40px;left:50px;font:400 640px/1 var(--ser);color:rgba(255,255,255,.22);z-index:3}
+.qt{position:absolute;left:92px;right:92px;top:38%;transform:translateY(-50%);font:italic 500 76px/1.14 var(--ser);text-align:center;color:#fff;z-index:5;text-shadow:0 3px 18px rgba(0,0,0,.6)}
+.qt b{color:var(--acc);font-weight:500}
+.qa{position:absolute;left:0;right:0;bottom:150px;text-align:center;font:600 27px Pp;letter-spacing:.3em;text-transform:uppercase;color:var(--acc);z-index:5}
 /* variante christversions: bloco justificado, sem cor */
 .v-cv .ln{font-size:56px;line-height:1.06;text-align:justify;text-align-last:left;letter-spacing:-.025em}
 .v-cv .ln b{color:#fff}
@@ -277,6 +283,21 @@ def render_collage(lay, s, i, d, handle, rich, n):
     mode, img, fill = prepare(dict(s, mode='full'), i, d)
     return (f'<section class="slide" id="s{i}"><img class="bg photo" src="{img}" style="filter:brightness(.52) saturate(.9)">'
             f'<div class="qm">&ldquo;</div><div class="qt">{rich(s["text"])}</div><div class="qa">{html.escape(s.get("autor", ""))}</div><div class="grain"></div></section>')
+
+
+THEMES = {
+    # nome: variaveis CSS do tema (paleta, fontes, tonalidade da imagem)
+    'noir':   {'--acc': '#ffd23f', '--paper': '#f1ece2', '--hot': '#b3261e', '--ink': '#151515', '--disp': 'A',  '--ser': 'PF', '--wash': 'transparent', '--gs': '0'},
+    'sakura': {'--dk': '1.16', '--acc': '#ff9ec4', '--paper': '#fbeef1', '--hot': '#c2185b', '--ink': '#2a1520', '--disp': 'BB', '--ser': 'CG', '--wash': 'rgba(255,150,190,.22)', '--gs': '0'},
+    'oceano': {'--dk': '.74', '--acc': '#8fe3ff', '--paper': '#e8f0f4', '--hot': '#0b5d8a', '--ink': '#0f1f2b', '--disp': 'AB', '--ser': 'PF', '--wash': 'rgba(40,120,210,.24)', '--gs': '0'},
+    'ocaso':  {'--dk': '1.16', '--acc': '#ffb347', '--paper': '#f7e8d4', '--hot': '#c0392b', '--ink': '#2a1a10', '--disp': 'BB', '--ser': 'PF', '--wash': 'rgba(255,110,50,.24)', '--gs': '0'},
+    'floresta': {'--dk': '.74', '--acc': '#c4f2a6', '--paper': '#e8efe0', '--hot': '#2f6b3d', '--ink': '#14241a', '--disp': 'AB', '--ser': 'CG', '--wash': 'rgba(50,140,80,.22)', '--gs': '0'},
+    'mono':   {'--acc': '#ffffff', '--paper': '#ececec', '--hot': '#111111', '--ink': '#0d0d0d', '--disp': 'A',  '--ser': 'CG', '--wash': 'transparent', '--gs': '1'},
+}
+
+def theme_css(name):
+    v = THEMES.get(name or 'noir', THEMES['noir'])
+    return ':root{' + ';'.join(f'{k}:{x}' for k, x in v.items()) + '}'
 
 
 def main(d):
@@ -377,7 +398,7 @@ document.fonts.ready.then(()=>{document.querySelectorAll('.gw').forEach(g=>{
  else{tx.style.top='150px'; fg.remove();}   // sem sobreposicao boa: texto no alto, na frente
 });document.body.dataset.ready=1;});
 </script>"""
-    page = (f'<!doctype html><html lang="pt-BR"><head><meta charset="utf-8"><style>{CSS.replace("FONTS", fonts)}</style>'
+    page = (f'<!doctype html><html lang="pt-BR"><head><meta charset="utf-8"><style>{CSS.replace("FONTS", fonts)}{theme_css(spec.get("tema", cfg.get("tema", "noir")))}</style>'
             f'</head><body>{"".join(parts)}{script}</body></html>')
     open(f'{d}/carrossel.html', 'w').write(page)
     n = len(spec['slides'])

diff --git a/PLAYBOOK.md b/PLAYBOOK.md
@@ -53,6 +53,18 @@ dois posts seguidos com a mesma palavra no gancho. Formatos (todos usam o mesmo 
 Em cada formato o último slide fecha com virada + "Siga @darkgoodvibes". Registre o formato usado em `history.json` (`"formato"`).
 Mude também o comprimento: posts de 5, 6, 7 ou 8 slides.
 
+## 2-quater. VARIE O VISUAL ENTRE POSTS (regra do dono: "não é porque um ficou bom que é pra manter todos assim")
+Cada post tem um visual PRÓPRIO. Nunca repita o mesmo visual em posts seguidos.
+- **Tema visual** (`"tema"` no `spec.json`): `noir` (preto/amarelo, Anton), `sakura` (rosa, Bebas + Cormorant), `oceano` (azul, Archivo Black),
+  `ocaso` (laranja, Bebas), `floresta` (verde, Archivo Black + Cormorant), `mono` (preto e branco, Anton + Cormorant).
+  Ele troca paleta, fontes e a tonalidade das imagens. **Escolha um tema diferente dos 3 últimos posts** (veja `"tema"` em `history.json`)
+  e combine com o assunto (ex.: descanso → oceano/floresta; saudade → ocaso/mono; amor/amizade → sakura; disciplina → noir/mono).
+  Domingo cristão: `mono` ou `ocaso`.
+- **Combinação de layouts diferente** da dos últimos 2 posts: a capa não pode ter o mesmo layout das 3 últimas capas, e o fechamento
+  não precisa ser sempre `frase`. Alterne também a ordem (às vezes comece por `painel`, `quadro` ou `serie`).
+- **Quantidade de slides** diferente (5 a 8) e **posição do texto** variando entre `top` e `bottom`.
+- Registre `"tema"` e a lista de layouts usados em `history.json` ao publicar.
+
 ## 2-ter. LAYOUTS VARIADOS (pedido do dono: nada de moldura/enfeite igual em todos os slides)
 Cada slide escolhe um `"layout"` no spec. **Misture pelo menos 3 layouts diferentes por post** e nunca use o mesmo
 layout em mais de 2 slides seguidos. A moldura de cantos (`"moldura": true`) só pode aparecer em NO MÁXIMO 1 slide por post.
